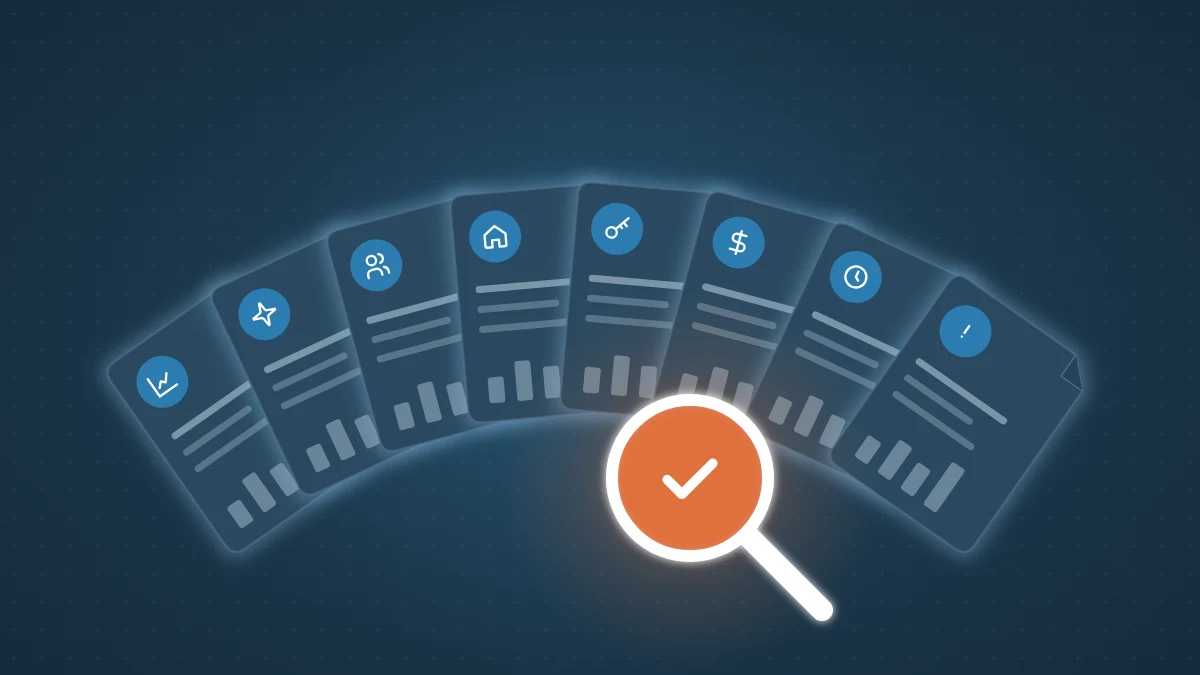
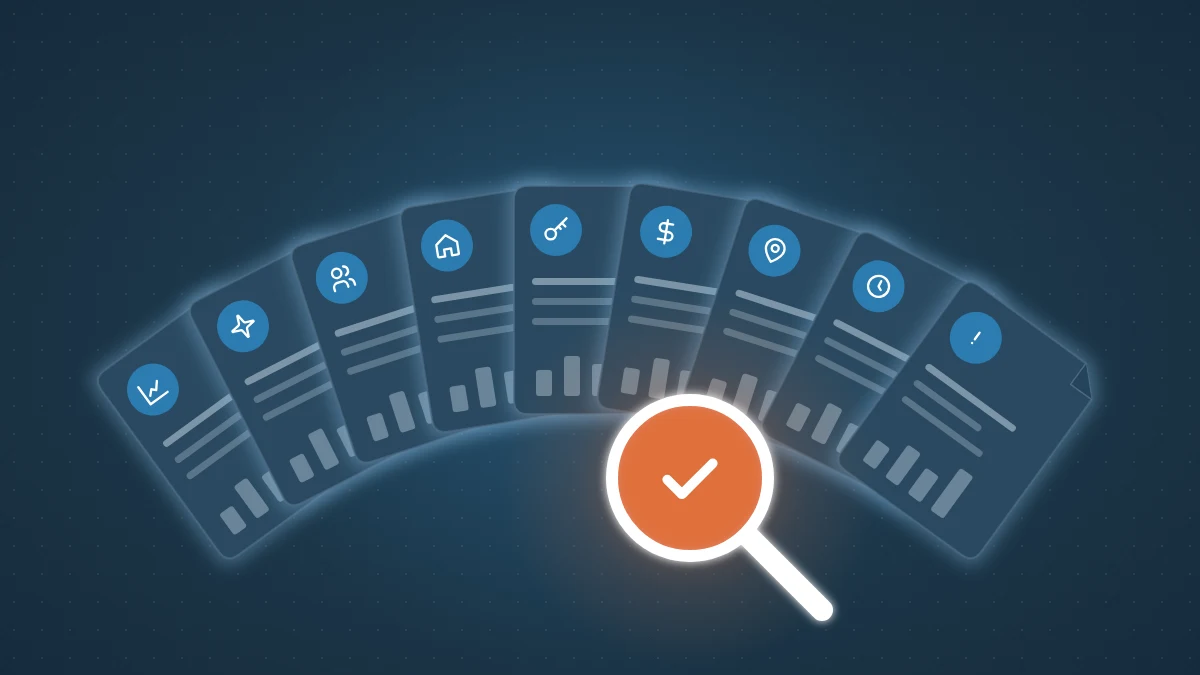
Reports post: add ProfitCoach financial performance report, now 9 reports; cover redrawn with nine cards

diff --git a/cover-src/2026-property-management-industry-reports.html b/cover-src/2026-property-management-industry-reports.html
@@ -17,14 +17,15 @@
   <filter id="rim" x="-25%" y="-70%" width="150%" height="240%"><feMorphology in="SourceAlpha" operator="dilate" radius="4" result="w"/><feGaussianBlur in="w" stdDeviation="9" result="s"/><feFlood flood-color="#7FB4DD" flood-opacity=".45"/><feComposite in2="s" operator="in" result="h"/><feMerge><feMergeNode in="h"/><feMergeNode in="SourceGraphic"/></feMerge></filter>
 </defs>
 <circle cx="600" cy="330" r="360" fill="url(#glowB)" opacity=".5"/>
-<g transform="translate(238.6 413.9) rotate(-35)"><g filter="url(#rim)"><path d="M-72.0 -114.0 H60.0 L86.0 -88.0 V100.0 Q86.0 114.0 72.0 114.0 H-72.0 Q-86.0 114.0 -86.0 100.0 V-100.0 Q-86.0 -114.0 -72.0 -114.0 Z" fill="#2a4a61" stroke="#4c6a80" stroke-width="1.5"/></g><path d="M60.0 -114.0 V-88.0 H86.0" fill="#24435a" stroke="#4c6a80" stroke-width="1.5"/><circle cx="-44.0" cy="-70.0" r="26" fill="#2C7CB0"/><g transform="translate(-58.0 -84.0) scale(1.167)" stroke="#fff" stroke-width="2.00" fill="none"><path d="M3 3v18h18"/><path d="M7 15l4-4 3 3 5-6"/></g><rect x="-68.0" y="-22.0" width="110" height="7" rx="3.5" fill="#9fb6c6" fill-opacity="0.7"/><rect x="-68.0" y="-2.0" width="82" height="7" rx="3.5" fill="#9fb6c6" fill-opacity="0.4"/><rect x="-68.0" y="18.0" width="98" height="7" rx="3.5" fill="#9fb6c6" fill-opacity="0.4"/><rect x="-64.0" y="70.0" width="16" height="26" rx="3" fill="#9fb6c6" fill-opacity=".55"/><rect x="-36.0" y="56.0" width="16" height="40" rx="3" fill="#9fb6c6" fill-opacity=".55"/><rect x="-8.0" y="64.0" width="16" height="32" rx="3" fill="#9fb6c6" fill-opacity=".55"/><rect x="20.0" y="44.0" width="16" height="52" rx="3" fill="#9fb6c6" fill-opacity=".55"/></g>
-<g transform="translate(333.8 359.0) rotate(-25)"><g filter="url(#rim)"><path d="M-72.0 -114.0 H60.0 L86.0 -88.0 V100.0 Q86.0 114.0 72.0 114.0 H-72.0 Q-86.0 114.0 -86.0 100.0 V-100.0 Q-86.0 -114.0 -72.0 -114.0 Z" fill="#2a4a61" stroke="#4c6a80" stroke-width="1.5"/></g><path d="M60.0 -114.0 V-88.0 H86.0" fill="#24435a" stroke="#4c6a80" stroke-width="1.5"/><circle cx="-44.0" cy="-70.0" r="26" fill="#2C7CB0"/><g transform="translate(-58.0 -84.0) scale(1.167)" stroke="#fff" stroke-width="2.00" fill="none"><path d="M9.9 15.5A2 2 0 0 0 8.5 14.1L2.4 12.5a.5.5 0 0 1 0-1l6.1-1.6A2 2 0 0 0 9.9 8.5l1.6-6.1a.5.5 0 0 1 1 0l1.6 6.1a2 2 0 0 0 1.4 1.4l6.1 1.6a.5.5 0 0 1 0 1l-6.1 1.6a2 2 0 0 0-1.4 1.4l-1.6 6.1a.5.5 0 0 1-1 0z"/></g><rect x="-68.0" y="-22.0" width="110" height="7" rx="3.5" fill="#9fb6c6" fill-opacity="0.7"/><rect x="-68.0" y="-2.0" width="82" height="7" rx="3.5" fill="#9fb6c6" fill-opacity="0.4"/><rect x="-68.0" y="18.0" width="98" height="7" rx="3.5" fill="#9fb6c6" fill-opacity="0.4"/><rect x="-64.0" y="70.0" width="16" height="26" rx="3" fill="#9fb6c6" fill-opacity=".55"/><rect x="-36.0" y="56.0" width="16" height="40" rx="3" fill="#9fb6c6" fill-opacity=".55"/><rect x="-8.0" y="64.0" width="16" height="32" rx="3" fill="#9fb6c6" fill-opacity=".55"/><rect x="20.0" y="44.0" width="16" height="52" rx="3" fill="#9fb6c6" fill-opacity=".55"/></g>
-<g transform="translate(436.9 321.5) rotate(-15)"><g filter="url(#rim)"><path d="M-72.0 -114.0 H60.0 L86.0 -88.0 V100.0 Q86.0 114.0 72.0 114.0 H-72.0 Q-86.0 114.0 -86.0 100.0 V-100.0 Q-86.0 -114.0 -72.0 -114.0 Z" fill="#2a4a61" stroke="#4c6a80" stroke-width="1.5"/></g><path d="M60.0 -114.0 V-88.0 H86.0" fill="#24435a" stroke="#4c6a80" stroke-width="1.5"/><circle cx="-44.0" cy="-70.0" r="26" fill="#2C7CB0"/><g transform="translate(-58.0 -84.0) scale(1.167)" stroke="#fff" stroke-width="2.00" fill="none"><circle cx="9" cy="7" r="4"/><path d="M3 21v-2a4 4 0 0 1 4-4h4a4 4 0 0 1 4 4v2M16 3.13a4 4 0 0 1 0 7.75M21 21v-2a4 4 0 0 0-3-3.85"/></g><rect x="-68.0" y="-22.0" width="110" height="7" rx="3.5" fill="#9fb6c6" fill-opacity="0.7"/><rect x="-68.0" y="-2.0" width="82" height="7" rx="3.5" fill="#9fb6c6" fill-opacity="0.4"/><rect x="-68.0" y="18.0" width="98" height="7" rx="3.5" fill="#9fb6c6" fill-opacity="0.4"/><rect x="-64.0" y="70.0" width="16" height="26" rx="3" fill="#9fb6c6" fill-opacity=".55"/><rect x="-36.0" y="56.0" width="16" height="40" rx="3" fill="#9fb6c6" fill-opacity=".55"/><rect x="-8.0" y="64.0" width="16" height="32" rx="3" fill="#9fb6c6" fill-opacity=".55"/><rect x="20.0" y="44.0" width="16" height="52" rx="3" fill="#9fb6c6" fill-opacity=".55"/></g>
-<g transform="translate(545.1 302.4) rotate(-5)"><g filter="url(#rim)"><path d="M-72.0 -114.0 H60.0 L86.0 -88.0 V100.0 Q86.0 114.0 72.0 114.0 H-72.0 Q-86.0 114.0 -86.0 100.0 V-100.0 Q-86.0 -114.0 -72.0 -114.0 Z" fill="#2a4a61" stroke="#4c6a80" stroke-width="1.5"/></g><path d="M60.0 -114.0 V-88.0 H86.0" fill="#24435a" stroke="#4c6a80" stroke-width="1.5"/><circle cx="-44.0" cy="-70.0" r="26" fill="#2C7CB0"/><g transform="translate(-58.0 -84.0) scale(1.167)" stroke="#fff" stroke-width="2.00" fill="none"><path d="M3 10.2 12 3l9 7.2V20a1 1 0 0 1-1 1h-5v-6H9v6H4a1 1 0 0 1-1-1z"/></g><rect x="-68.0" y="-22.0" width="110" height="7" rx="3.5" fill="#9fb6c6" fill-opacity="0.7"/><rect x="-68.0" y="-2.0" width="82" height="7" rx="3.5" fill="#9fb6c6" fill-opacity="0.4"/><rect x="-68.0" y="18.0" width="98" height="7" rx="3.5" fill="#9fb6c6" fill-opacity="0.4"/><rect x="-64.0" y="70.0" width="16" height="26" rx="3" fill="#9fb6c6" fill-opacity=".55"/><rect x="-36.0" y="56.0" width="16" height="40" rx="3" fill="#9fb6c6" fill-opacity=".55"/><rect x="-8.0" y="64.0" width="16" height="32" rx="3" fill="#9fb6c6" fill-opacity=".55"/><rect x="20.0" y="44.0" width="16" height="52" rx="3" fill="#9fb6c6" fill-opacity=".55"/></g>
-<g transform="translate(654.9 302.4) rotate(5)"><g filter="url(#rim)"><path d="M-72.0 -114.0 H60.0 L86.0 -88.0 V100.0 Q86.0 114.0 72.0 114.0 H-72.0 Q-86.0 114.0 -86.0 100.0 V-100.0 Q-86.0 -114.0 -72.0 -114.0 Z" fill="#2a4a61" stroke="#4c6a80" stroke-width="1.5"/></g><path d="M60.0 -114.0 V-88.0 H86.0" fill="#24435a" stroke="#4c6a80" stroke-width="1.5"/><circle cx="-44.0" cy="-70.0" r="26" fill="#2C7CB0"/><g transform="translate(-58.0 -84.0) scale(1.167)" stroke="#fff" stroke-width="2.00" fill="none"><circle cx="7.5" cy="15.5" r="4.5"/><path d="M10.7 12.3 21 2M17 6l3 3M14 9l2 2"/></g><rect x="-68.0" y="-22.0" width="110" height="7" rx="3.5" fill="#9fb6c6" fill-opacity="0.7"/><rect x="-68.0" y="-2.0" width="82" height="7" rx="3.5" fill="#9fb6c6" fill-opacity="0.4"/><rect x="-68.0" y="18.0" width="98" height="7" rx="3.5" fill="#9fb6c6" fill-opacity="0.4"/><rect x="-64.0" y="70.0" width="16" height="26" rx="3" fill="#9fb6c6" fill-opacity=".55"/><rect x="-36.0" y="56.0" width="16" height="40" rx="3" fill="#9fb6c6" fill-opacity=".55"/><rect x="-8.0" y="64.0" width="16" height="32" rx="3" fill="#9fb6c6" fill-opacity=".55"/><rect x="20.0" y="44.0" width="16" height="52" rx="3" fill="#9fb6c6" fill-opacity=".55"/></g>
-<g transform="translate(763.1 321.5) rotate(15)"><g filter="url(#rim)"><path d="M-72.0 -114.0 H60.0 L86.0 -88.0 V100.0 Q86.0 114.0 72.0 114.0 H-72.0 Q-86.0 114.0 -86.0 100.0 V-100.0 Q-86.0 -114.0 -72.0 -114.0 Z" fill="#2a4a61" stroke="#4c6a80" stroke-width="1.5"/></g><path d="M60.0 -114.0 V-88.0 H86.0" fill="#24435a" stroke="#4c6a80" stroke-width="1.5"/><circle cx="-44.0" cy="-70.0" r="26" fill="#2C7CB0"/><g transform="translate(-58.0 -84.0) scale(1.167)" stroke="#fff" stroke-width="2.00" fill="none"><path d="M12 2v20"/><path d="M17 5H9.5a3.5 3.5 0 0 0 0 7h5a3.5 3.5 0 0 1 0 7H6"/></g><rect x="-68.0" y="-22.0" width="110" height="7" rx="3.5" fill="#9fb6c6" fill-opacity="0.7"/><rect x="-68.0" y="-2.0" width="82" height="7" rx="3.5" fill="#9fb6c6" fill-opacity="0.4"/><rect x="-68.0" y="18.0" width="98" height="7" rx="3.5" fill="#9fb6c6" fill-opacity="0.4"/><rect x="-64.0" y="70.0" width="16" height="26" rx="3" fill="#9fb6c6" fill-opacity=".55"/><rect x="-36.0" y="56.0" width="16" height="40" rx="3" fill="#9fb6c6" fill-opacity=".55"/><rect x="-8.0" y="64.0" width="16" height="32" rx="3" fill="#9fb6c6" fill-opacity=".55"/><rect x="20.0" y="44.0" width="16" height="52" rx="3" fill="#9fb6c6" fill-opacity=".55"/></g>
-<g transform="translate(866.2 359.0) rotate(25)"><g filter="url(#rim)"><path d="M-72.0 -114.0 H60.0 L86.0 -88.0 V100.0 Q86.0 114.0 72.0 114.0 H-72.0 Q-86.0 114.0 -86.0 100.0 V-100.0 Q-86.0 -114.0 -72.0 -114.0 Z" fill="#2a4a61" stroke="#4c6a80" stroke-width="1.5"/></g><path d="M60.0 -114.0 V-88.0 H86.0" fill="#24435a" stroke="#4c6a80" stroke-width="1.5"/><circle cx="-44.0" cy="-70.0" r="26" fill="#2C7CB0"/><g transform="translate(-58.0 -84.0) scale(1.167)" stroke="#fff" stroke-width="2.00" fill="none"><circle cx="12" cy="12" r="9"/><path d="M12 7v5l3 2"/></g><rect x="-68.0" y="-22.0" width="110" height="7" rx="3.5" fill="#9fb6c6" fill-opacity="0.7"/><rect x="-68.0" y="-2.0" width="82" height="7" rx="3.5" fill="#9fb6c6" fill-opacity="0.4"/><rect x="-68.0" y="18.0" width="98" height="7" rx="3.5" fill="#9fb6c6" fill-opacity="0.4"/><rect x="-64.0" y="70.0" width="16" height="26" rx="3" fill="#9fb6c6" fill-opacity=".55"/><rect x="-36.0" y="56.0" width="16" height="40" rx="3" fill="#9fb6c6" fill-opacity=".55"/><rect x="-8.0" y="64.0" width="16" height="32" rx="3" fill="#9fb6c6" fill-opacity=".55"/><rect x="20.0" y="44.0" width="16" height="52" rx="3" fill="#9fb6c6" fill-opacity=".55"/></g>
-<g transform="translate(961.4 413.9) rotate(35)"><g filter="url(#rim)"><path d="M-72.0 -114.0 H60.0 L86.0 -88.0 V100.0 Q86.0 114.0 72.0 114.0 H-72.0 Q-86.0 114.0 -86.0 100.0 V-100.0 Q-86.0 -114.0 -72.0 -114.0 Z" fill="#2a4a61" stroke="#4c6a80" stroke-width="1.5"/></g><path d="M60.0 -114.0 V-88.0 H86.0" fill="#24435a" stroke="#4c6a80" stroke-width="1.5"/><circle cx="-44.0" cy="-70.0" r="26" fill="#2C7CB0"/><g transform="translate(-58.0 -84.0) scale(1.167)" stroke="#fff" stroke-width="2.00" fill="none"><path d="M12 6.5v7"/><path d="M12 17.5h.01"/></g><rect x="-68.0" y="-22.0" width="110" height="7" rx="3.5" fill="#9fb6c6" fill-opacity="0.7"/><rect x="-68.0" y="-2.0" width="82" height="7" rx="3.5" fill="#9fb6c6" fill-opacity="0.4"/><rect x="-68.0" y="18.0" width="98" height="7" rx="3.5" fill="#9fb6c6" fill-opacity="0.4"/><rect x="-64.0" y="70.0" width="16" height="26" rx="3" fill="#9fb6c6" fill-opacity=".55"/><rect x="-36.0" y="56.0" width="16" height="40" rx="3" fill="#9fb6c6" fill-opacity=".55"/><rect x="-8.0" y="64.0" width="16" height="32" rx="3" fill="#9fb6c6" fill-opacity=".55"/><rect x="20.0" y="44.0" width="16" height="52" rx="3" fill="#9fb6c6" fill-opacity=".55"/></g>
+<g transform="translate(229.7 420.3) rotate(-36)"><g filter="url(#rim)"><path d="M-72.0 -114.0 H60.0 L86.0 -88.0 V100.0 Q86.0 114.0 72.0 114.0 H-72.0 Q-86.0 114.0 -86.0 100.0 V-100.0 Q-86.0 -114.0 -72.0 -114.0 Z" fill="#2a4a61" stroke="#4c6a80" stroke-width="1.5"/></g><path d="M60.0 -114.0 V-88.0 H86.0" fill="#24435a" stroke="#4c6a80" stroke-width="1.5"/><circle cx="-44.0" cy="-70.0" r="26" fill="#2C7CB0"/><g transform="translate(-58.0 -84.0) scale(1.167)" stroke="#fff" stroke-width="2.00" fill="none"><path d="M3 3v18h18"/><path d="M7 15l4-4 3 3 5-6"/></g><rect x="-68.0" y="-22.0" width="110" height="7" rx="3.5" fill="#9fb6c6" fill-opacity="0.7"/><rect x="-68.0" y="-2.0" width="82" height="7" rx="3.5" fill="#9fb6c6" fill-opacity="0.4"/><rect x="-68.0" y="18.0" width="98" height="7" rx="3.5" fill="#9fb6c6" fill-opacity="0.4"/><rect x="-64.0" y="70.0" width="16" height="26" rx="3" fill="#9fb6c6" fill-opacity=".55"/><rect x="-36.0" y="56.0" width="16" height="40" rx="3" fill="#9fb6c6" fill-opacity=".55"/><rect x="-8.0" y="64.0" width="16" height="32" rx="3" fill="#9fb6c6" fill-opacity=".55"/><rect x="20.0" y="44.0" width="16" height="52" rx="3" fill="#9fb6c6" fill-opacity=".55"/></g>
+<g transform="translate(314.0 368.7) rotate(-27)"><g filter="url(#rim)"><path d="M-72.0 -114.0 H60.0 L86.0 -88.0 V100.0 Q86.0 114.0 72.0 114.0 H-72.0 Q-86.0 114.0 -86.0 100.0 V-100.0 Q-86.0 -114.0 -72.0 -114.0 Z" fill="#2a4a61" stroke="#4c6a80" stroke-width="1.5"/></g><path d="M60.0 -114.0 V-88.0 H86.0" fill="#24435a" stroke="#4c6a80" stroke-width="1.5"/><circle cx="-44.0" cy="-70.0" r="26" fill="#2C7CB0"/><g transform="translate(-58.0 -84.0) scale(1.167)" stroke="#fff" stroke-width="2.00" fill="none"><path d="M9.9 15.5A2 2 0 0 0 8.5 14.1L2.4 12.5a.5.5 0 0 1 0-1l6.1-1.6A2 2 0 0 0 9.9 8.5l1.6-6.1a.5.5 0 0 1 1 0l1.6 6.1a2 2 0 0 0 1.4 1.4l6.1 1.6a.5.5 0 0 1 0 1l-6.1 1.6a2 2 0 0 0-1.4 1.4l-1.6 6.1a.5.5 0 0 1-1 0z"/></g><rect x="-68.0" y="-22.0" width="110" height="7" rx="3.5" fill="#9fb6c6" fill-opacity="0.7"/><rect x="-68.0" y="-2.0" width="82" height="7" rx="3.5" fill="#9fb6c6" fill-opacity="0.4"/><rect x="-68.0" y="18.0" width="98" height="7" rx="3.5" fill="#9fb6c6" fill-opacity="0.4"/><rect x="-64.0" y="70.0" width="16" height="26" rx="3" fill="#9fb6c6" fill-opacity=".55"/><rect x="-36.0" y="56.0" width="16" height="40" rx="3" fill="#9fb6c6" fill-opacity=".55"/><rect x="-8.0" y="64.0" width="16" height="32" rx="3" fill="#9fb6c6" fill-opacity=".55"/><rect x="20.0" y="44.0" width="16" height="52" rx="3" fill="#9fb6c6" fill-opacity=".55"/></g>
+<g transform="translate(405.3 330.8) rotate(-18)"><g filter="url(#rim)"><path d="M-72.0 -114.0 H60.0 L86.0 -88.0 V100.0 Q86.0 114.0 72.0 114.0 H-72.0 Q-86.0 114.0 -86.0 100.0 V-100.0 Q-86.0 -114.0 -72.0 -114.0 Z" fill="#2a4a61" stroke="#4c6a80" stroke-width="1.5"/></g><path d="M60.0 -114.0 V-88.0 H86.0" fill="#24435a" stroke="#4c6a80" stroke-width="1.5"/><circle cx="-44.0" cy="-70.0" r="26" fill="#2C7CB0"/><g transform="translate(-58.0 -84.0) scale(1.167)" stroke="#fff" stroke-width="2.00" fill="none"><circle cx="9" cy="7" r="4"/><path d="M3 21v-2a4 4 0 0 1 4-4h4a4 4 0 0 1 4 4v2M16 3.13a4 4 0 0 1 0 7.75M21 21v-2a4 4 0 0 0-3-3.85"/></g><rect x="-68.0" y="-22.0" width="110" height="7" rx="3.5" fill="#9fb6c6" fill-opacity="0.7"/><rect x="-68.0" y="-2.0" width="82" height="7" rx="3.5" fill="#9fb6c6" fill-opacity="0.4"/><rect x="-68.0" y="18.0" width="98" height="7" rx="3.5" fill="#9fb6c6" fill-opacity="0.4"/><rect x="-64.0" y="70.0" width="16" height="26" rx="3" fill="#9fb6c6" fill-opacity=".55"/><rect x="-36.0" y="56.0" width="16" height="40" rx="3" fill="#9fb6c6" fill-opacity=".55"/><rect x="-8.0" y="64.0" width="16" height="32" rx="3" fill="#9fb6c6" fill-opacity=".55"/><rect x="20.0" y="44.0" width="16" height="52" rx="3" fill="#9fb6c6" fill-opacity=".55"/></g>
+<g transform="translate(501.4 307.8) rotate(-9)"><g filter="url(#rim)"><path d="M-72.0 -114.0 H60.0 L86.0 -88.0 V100.0 Q86.0 114.0 72.0 114.0 H-72.0 Q-86.0 114.0 -86.0 100.0 V-100.0 Q-86.0 -114.0 -72.0 -114.0 Z" fill="#2a4a61" stroke="#4c6a80" stroke-width="1.5"/></g><path d="M60.0 -114.0 V-88.0 H86.0" fill="#24435a" stroke="#4c6a80" stroke-width="1.5"/><circle cx="-44.0" cy="-70.0" r="26" fill="#2C7CB0"/><g transform="translate(-58.0 -84.0) scale(1.167)" stroke="#fff" stroke-width="2.00" fill="none"><path d="M3 10.2 12 3l9 7.2V20a1 1 0 0 1-1 1h-5v-6H9v6H4a1 1 0 0 1-1-1z"/></g><rect x="-68.0" y="-22.0" width="110" height="7" rx="3.5" fill="#9fb6c6" fill-opacity="0.7"/><rect x="-68.0" y="-2.0" width="82" height="7" rx="3.5" fill="#9fb6c6" fill-opacity="0.4"/><rect x="-68.0" y="18.0" width="98" height="7" rx="3.5" fill="#9fb6c6" fill-opacity="0.4"/><rect x="-64.0" y="70.0" width="16" height="26" rx="3" fill="#9fb6c6" fill-opacity=".55"/><rect x="-36.0" y="56.0" width="16" height="40" rx="3" fill="#9fb6c6" fill-opacity=".55"/><rect x="-8.0" y="64.0" width="16" height="32" rx="3" fill="#9fb6c6" fill-opacity=".55"/><rect x="20.0" y="44.0" width="16" height="52" rx="3" fill="#9fb6c6" fill-opacity=".55"/></g>
+<g transform="translate(600.0 300.0) rotate(0)"><g filter="url(#rim)"><path d="M-72.0 -114.0 H60.0 L86.0 -88.0 V100.0 Q86.0 114.0 72.0 114.0 H-72.0 Q-86.0 114.0 -86.0 100.0 V-100.0 Q-86.0 -114.0 -72.0 -114.0 Z" fill="#2a4a61" stroke="#4c6a80" stroke-width="1.5"/></g><path d="M60.0 -114.0 V-88.0 H86.0" fill="#24435a" stroke="#4c6a80" stroke-width="1.5"/><circle cx="-44.0" cy="-70.0" r="26" fill="#2C7CB0"/><g transform="translate(-58.0 -84.0) scale(1.167)" stroke="#fff" stroke-width="2.00" fill="none"><circle cx="7.5" cy="15.5" r="4.5"/><path d="M10.7 12.3 21 2M17 6l3 3M14 9l2 2"/></g><rect x="-68.0" y="-22.0" width="110" height="7" rx="3.5" fill="#9fb6c6" fill-opacity="0.7"/><rect x="-68.0" y="-2.0" width="82" height="7" rx="3.5" fill="#9fb6c6" fill-opacity="0.4"/><rect x="-68.0" y="18.0" width="98" height="7" rx="3.5" fill="#9fb6c6" fill-opacity="0.4"/><rect x="-64.0" y="70.0" width="16" height="26" rx="3" fill="#9fb6c6" fill-opacity=".55"/><rect x="-36.0" y="56.0" width="16" height="40" rx="3" fill="#9fb6c6" fill-opacity=".55"/><rect x="-8.0" y="64.0" width="16" height="32" rx="3" fill="#9fb6c6" fill-opacity=".55"/><rect x="20.0" y="44.0" width="16" height="52" rx="3" fill="#9fb6c6" fill-opacity=".55"/></g>
+<g transform="translate(698.6 307.8) rotate(9)"><g filter="url(#rim)"><path d="M-72.0 -114.0 H60.0 L86.0 -88.0 V100.0 Q86.0 114.0 72.0 114.0 H-72.0 Q-86.0 114.0 -86.0 100.0 V-100.0 Q-86.0 -114.0 -72.0 -114.0 Z" fill="#2a4a61" stroke="#4c6a80" stroke-width="1.5"/></g><path d="M60.0 -114.0 V-88.0 H86.0" fill="#24435a" stroke="#4c6a80" stroke-width="1.5"/><circle cx="-44.0" cy="-70.0" r="26" fill="#2C7CB0"/><g transform="translate(-58.0 -84.0) scale(1.167)" stroke="#fff" stroke-width="2.00" fill="none"><path d="M12 2v20"/><path d="M17 5H9.5a3.5 3.5 0 0 0 0 7h5a3.5 3.5 0 0 1 0 7H6"/></g><rect x="-68.0" y="-22.0" width="110" height="7" rx="3.5" fill="#9fb6c6" fill-opacity="0.7"/><rect x="-68.0" y="-2.0" width="82" height="7" rx="3.5" fill="#9fb6c6" fill-opacity="0.4"/><rect x="-68.0" y="18.0" width="98" height="7" rx="3.5" fill="#9fb6c6" fill-opacity="0.4"/><rect x="-64.0" y="70.0" width="16" height="26" rx="3" fill="#9fb6c6" fill-opacity=".55"/><rect x="-36.0" y="56.0" width="16" height="40" rx="3" fill="#9fb6c6" fill-opacity=".55"/><rect x="-8.0" y="64.0" width="16" height="32" rx="3" fill="#9fb6c6" fill-opacity=".55"/><rect x="20.0" y="44.0" width="16" height="52" rx="3" fill="#9fb6c6" fill-opacity=".55"/></g>
+<g transform="translate(794.7 330.8) rotate(18)"><g filter="url(#rim)"><path d="M-72.0 -114.0 H60.0 L86.0 -88.0 V100.0 Q86.0 114.0 72.0 114.0 H-72.0 Q-86.0 114.0 -86.0 100.0 V-100.0 Q-86.0 -114.0 -72.0 -114.0 Z" fill="#2a4a61" stroke="#4c6a80" stroke-width="1.5"/></g><path d="M60.0 -114.0 V-88.0 H86.0" fill="#24435a" stroke="#4c6a80" stroke-width="1.5"/><circle cx="-44.0" cy="-70.0" r="26" fill="#2C7CB0"/><g transform="translate(-58.0 -84.0) scale(1.167)" stroke="#fff" stroke-width="2.00" fill="none"><path d="M20 10c0 6-8 12-8 12S4 16 4 10a8 8 0 0 1 16 0z"/><circle cx="12" cy="10" r="3"/></g><rect x="-68.0" y="-22.0" width="110" height="7" rx="3.5" fill="#9fb6c6" fill-opacity="0.7"/><rect x="-68.0" y="-2.0" width="82" height="7" rx="3.5" fill="#9fb6c6" fill-opacity="0.4"/><rect x="-68.0" y="18.0" width="98" height="7" rx="3.5" fill="#9fb6c6" fill-opacity="0.4"/><rect x="-64.0" y="70.0" width="16" height="26" rx="3" fill="#9fb6c6" fill-opacity=".55"/><rect x="-36.0" y="56.0" width="16" height="40" rx="3" fill="#9fb6c6" fill-opacity=".55"/><rect x="-8.0" y="64.0" width="16" height="32" rx="3" fill="#9fb6c6" fill-opacity=".55"/><rect x="20.0" y="44.0" width="16" height="52" rx="3" fill="#9fb6c6" fill-opacity=".55"/></g>
+<g transform="translate(886.0 368.7) rotate(27)"><g filter="url(#rim)"><path d="M-72.0 -114.0 H60.0 L86.0 -88.0 V100.0 Q86.0 114.0 72.0 114.0 H-72.0 Q-86.0 114.0 -86.0 100.0 V-100.0 Q-86.0 -114.0 -72.0 -114.0 Z" fill="#2a4a61" stroke="#4c6a80" stroke-width="1.5"/></g><path d="M60.0 -114.0 V-88.0 H86.0" fill="#24435a" stroke="#4c6a80" stroke-width="1.5"/><circle cx="-44.0" cy="-70.0" r="26" fill="#2C7CB0"/><g transform="translate(-58.0 -84.0) scale(1.167)" stroke="#fff" stroke-width="2.00" fill="none"><circle cx="12" cy="12" r="9"/><path d="M12 7v5l3 2"/></g><rect x="-68.0" y="-22.0" width="110" height="7" rx="3.5" fill="#9fb6c6" fill-opacity="0.7"/><rect x="-68.0" y="-2.0" width="82" height="7" rx="3.5" fill="#9fb6c6" fill-opacity="0.4"/><rect x="-68.0" y="18.0" width="98" height="7" rx="3.5" fill="#9fb6c6" fill-opacity="0.4"/><rect x="-64.0" y="70.0" width="16" height="26" rx="3" fill="#9fb6c6" fill-opacity=".55"/><rect x="-36.0" y="56.0" width="16" height="40" rx="3" fill="#9fb6c6" fill-opacity=".55"/><rect x="-8.0" y="64.0" width="16" height="32" rx="3" fill="#9fb6c6" fill-opacity=".55"/><rect x="20.0" y="44.0" width="16" height="52" rx="3" fill="#9fb6c6" fill-opacity=".55"/></g>
+<g transform="translate(970.3 420.3) rotate(36)"><g filter="url(#rim)"><path d="M-72.0 -114.0 H60.0 L86.0 -88.0 V100.0 Q86.0 114.0 72.0 114.0 H-72.0 Q-86.0 114.0 -86.0 100.0 V-100.0 Q-86.0 -114.0 -72.0 -114.0 Z" fill="#2a4a61" stroke="#4c6a80" stroke-width="1.5"/></g><path d="M60.0 -114.0 V-88.0 H86.0" fill="#24435a" stroke="#4c6a80" stroke-width="1.5"/><circle cx="-44.0" cy="-70.0" r="26" fill="#2C7CB0"/><g transform="translate(-58.0 -84.0) scale(1.167)" stroke="#fff" stroke-width="2.00" fill="none"><path d="M12 6.5v7"/><path d="M12 17.5h.01"/></g><rect x="-68.0" y="-22.0" width="110" height="7" rx="3.5" fill="#9fb6c6" fill-opacity="0.7"/><rect x="-68.0" y="-2.0" width="82" height="7" rx="3.5" fill="#9fb6c6" fill-opacity="0.4"/><rect x="-68.0" y="18.0" width="98" height="7" rx="3.5" fill="#9fb6c6" fill-opacity="0.4"/><rect x="-64.0" y="70.0" width="16" height="26" rx="3" fill="#9fb6c6" fill-opacity=".55"/><rect x="-36.0" y="56.0" width="16" height="40" rx="3" fill="#9fb6c6" fill-opacity=".55"/><rect x="-8.0" y="64.0" width="16" height="32" rx="3" fill="#9fb6c6" fill-opacity=".55"/><rect x="20.0" y="44.0" width="16" height="52" rx="3" fill="#9fb6c6" fill-opacity=".55"/></g>
 <circle cx="690" cy="478" r="190" fill="url(#glowO)"/>
 <path d="M744 532 L822 610" stroke="#fff" stroke-width="22" filter="url(#soft)"/>
 <circle cx="690" cy="478" r="78" fill="#E0703C" fill-opacity=".92" stroke="#fff" stroke-width="12" filter="url(#soft)"/>

diff --git a/blog/2026-property-management-industry-reports.html b/blog/2026-property-management-industry-reports.html
@@ -6,19 +6,19 @@
 <link rel="preconnect" href="https://fonts.googleapis.com" />
 <link rel="preconnect" href="https://fonts.gstatic.com" crossorigin />
 <link rel="preconnect" href="https://use.typekit.net" crossorigin />
-<title>2026 Property Management Industry Reports: The 8 Worth Reading &middot; Peter Lohmann</title>
-<meta name="description" content="Eight 2026 property management research reports for single-family PMs, plus the stats that matter on AI, owner retention, leasing, repair times, and fraud." />
+<title>2026 Property Management Industry Reports: The 9 Worth Reading &middot; Peter Lohmann</title>
+<meta name="description" content="Nine 2026 property management research reports for single-family PMs, plus the stats that matter on AI, owner retention, leasing, repair times, fraud, and profitability." />
 <link rel="canonical" href="https://www.peterlohmann.com/blog/2026-property-management-industry-reports" />
 <meta property="og:type" content="article" />
-<meta property="og:title" content="2026 Property Management Industry Reports: The 8 Worth Reading" />
-<meta property="og:description" content="Eight 2026 property management research reports for single-family PMs, plus the stats that matter on AI, owner retention, leasing, repair times, and fraud." />
+<meta property="og:title" content="2026 Property Management Industry Reports: The 9 Worth Reading" />
+<meta property="og:description" content="Nine 2026 property management research reports for single-family PMs, plus the stats that matter on AI, owner retention, leasing, repair times, fraud, and profitability." />
 <meta property="og:url" content="https://www.peterlohmann.com/blog/2026-property-management-industry-reports" />
 <meta property="og:image" content="https://www.peterlohmann.com/images/blog/2026-property-management-industry-reports--og.jpg" />
 <meta property="og:image:width" content="1200" />
 <meta property="og:image:height" content="630" />
 <meta property="og:site_name" content="Peter Lohmann" />
 <meta name="twitter:card" content="summary_large_image" />
-<script type="application/ld+json">{"@context":"https://schema.org","@type":"BlogPosting","headline":"2026 Property Management Industry Reports: The 8 Worth Reading","description":"Eight 2026 property management research reports for single-family PMs, plus the stats that matter on AI, owner retention, leasing, repair times, and fraud.","image":"https://www.peterlohmann.com/images/blog/2026-property-management-industry-reports--cover.webp","url":"https://www.peterlohmann.com/blog/2026-property-management-industry-reports","author":{"@type":"Person","name":"Peter Lohmann","url":"https://www.peterlohmann.com/"},"publisher":{"@type":"Person","name":"Peter Lohmann"},"mainEntityOfPage":"https://www.peterlohmann.com/blog/2026-property-management-industry-reports","datePublished":"2026-11-10"}</script>
+<script type="application/ld+json">{"@context":"https://schema.org","@type":"BlogPosting","headline":"2026 Property Management Industry Reports: The 9 Worth Reading","description":"Nine 2026 property management research reports for single-family PMs, plus the stats that matter on AI, owner retention, leasing, repair times, fraud, and profitability.","image":"https://www.peterlohmann.com/images/blog/2026-property-management-industry-reports--cover.webp","url":"https://www.peterlohmann.com/blog/2026-property-management-industry-reports","author":{"@type":"Person","name":"Peter Lohmann","url":"https://www.peterlohmann.com/"},"publisher":{"@type":"Person","name":"Peter Lohmann"},"mainEntityOfPage":"https://www.peterlohmann.com/blog/2026-property-management-industry-reports","datePublished":"2026-11-10"}</script>
 <link rel="icon" type="image/svg+xml" href="../favicon.svg" />
 <link rel="icon" type="image/png" sizes="32x32" href="../favicon-32.png" />
 <link rel="apple-touch-icon" href="/apple-touch-icon.png" />
@@ -73,13 +73,13 @@ document.getElementsByTagName("script")[0].parentNode.insertBefore(s, document.g
           <div class="article-head-text">
             <a class="article-back" href="/blog">&larr; All posts</a>
             <div class="article-meta">Nov 10, 2026 &middot; by Peter Lohmann</div>
-            <h1>2026 Property Management Industry Reports: The 8 Worth Reading</h1>
-          </div><figure class="article-cover"><img src="../images/blog/2026-property-management-industry-reports--cover.webp" alt="Illustration of eight research reports fanned out like a hand of cards, each marked with a topic icon such as AI, owners, rent, repair time, and fraud, with an orange magnifying glass and check mark in front." width="1200" height="675" /></figure>
+            <h1>2026 Property Management Industry Reports: The 9 Worth Reading</h1>
+          </div><figure class="article-cover"><img src="../images/blog/2026-property-management-industry-reports--cover.webp" alt="Illustration of nine research reports fanned out like a hand of cards, each marked with a topic icon such as AI, owners, rent, repair time, and fraud, with an orange magnifying glass and check mark in front." width="1200" height="675" /></figure>
         </header>
         <div class="article-body">
 <p>It&rsquo;s report season! Software companies, associations, and data shops are all publishing their numbers, and the good stuff is scattered across a pile of websites and PDFs.</p>
-<p>I rounded up the 2026 property management research reports so you don&rsquo;t have to scour the internet for them. Eight stood out to me for single-family PMs. Here&rsquo;s the full list with links, followed by the stats that matter, grouped by the problem they speak to.</p>
-<h2>All 8 reports in one place</h2>
+<p>I rounded up the 2026 property management research reports so you don&rsquo;t have to scour the internet for them. Nine stood out to me for single-family PMs. Here&rsquo;s the full list with links, followed by the stats that matter, grouped by the problem they speak to.</p>
+<h2>All 9 reports in one place</h2>
 <p>In no particular order:</p>
 <ol>
 <li><strong><a href="https://www.buildium.com/resource/2027-property-management-industry-report/" target="_blank" rel="noopener">Buildium&rsquo;s 2027 State of the Property Management Industry Report</a>:</strong> roughly 1,000 PMs, 300 owners, and 1,500+ renters surveyed in spring 2026. NARPM president DD Garzon wrote the foreword.</li>
@@ -90,6 +90,7 @@ document.getElementsByTagName("script")[0].parentNode.insertBefore(s, document.g
 <li><strong><a href="https://www.rentengine.io/quarterly-reports/q3-2026" target="_blank" rel="noopener">RentEngine Q3 2026 Leasing Data &amp; Trends Report</a>:</strong> days on market, pre-vacancy listings, specials, and AI response rates.</li>
 <li><strong><a href="https://sm.showmojo.com/q3-2026-hard-data-and-proven-techniques" target="_blank" rel="noopener">ShowMojo Q3 2026 Data Talk</a>:</strong> 1.8M+ leased units, broken out by region.</li>
 <li><strong><a href="https://www.rentometer.com/2026-mid-year-single-family-rental-market-report" target="_blank" rel="noopener">Rentometer Mid-Year 2026 Single-Family Rental Report</a>:</strong> asking rents across 1,099 cities.</li>
+<li><strong><a href="https://www.pmprofitcoach.com/state-of-financial-performance-in-property-management/" target="_blank" rel="noopener">ProfitCoach&rsquo;s 2026 State of Financial Performance in Property Management Report</a>:</strong> six financial performance metrics, including what drives profitability, direct labor efficiency ratio, <a href="/blog/revenue-per-unit-property-management">revenue per unit</a>, expenses as a percent of revenue, client churn rate, and unit acquisition cost. They also found that pushing occupancy past 95% only yields 0.88% more profit.</li>
 </ol>
 <h2>AI: most PMs use it, fewer see it in NOI</h2>
 <p><a href="https://www.buildium.com/resource/2027-property-management-industry-report/" target="_blank" rel="noopener">Buildium&rsquo;s 2027 State of the Property Management Industry Report</a> (yes, 2027, they&rsquo;re early) has the stat I keep coming back to. 64% of companies plan to grow their portfolios, while 70% plan to keep headcount flat.</p>

diff --git a/blog.html b/blog.html
@@ -80,8 +80,8 @@ document.getElementsByTagName("script")[0].parentNode.insertBefore(s, document.g
           <div class="ph-img"><img src="images/blog/2026-property-management-industry-reports--cover.webp" alt="" loading="lazy"></div>
           <div class="tp-body">
             <div class="date">Nov 10, 2026</div>
-            <h2>2026 Property Management Industry Reports: The 8 Worth Reading</h2>
-            <p>Eight 2026 property management research reports for single-family PMs, plus the stats that matter on AI, owner retention, leasing, repair times, and fraud.</p>
+            <h2>2026 Property Management Industry Reports: The 9 Worth Reading</h2>
+            <p>Nine 2026 property management research reports for single-family PMs, plus the stats that matter on AI, owner retention, leasing, repair times, fraud, and profitability.</p>
             <span class="arrow">Read the post &rarr;</span>
           </div>
         </a>

diff --git a/cover-src/make-industry-reports-cover.py b/cover-src/make-industry-reports-cover.py
@@ -1,6 +1,6 @@
 """Nov 10, 2026 cover: 2026 property management industry reports (DARK).
-A fan of eight report cards, each with its topic icon, and a glowing orange magnifier
-with a check mark: the eight worth reading. Writes cover-src/<slug>.html."""
+A fan of nine report cards (eight at first; the ProfitCoach report was added Nov 12), each with its topic icon, and a glowing orange magnifier
+with a check mark: the nine worth reading. Writes cover-src/<slug>.html."""
 import math, os, sys
 sys.path.insert(0, os.path.dirname(os.path.abspath(__file__)))
 from cover_kit import *
@@ -25,9 +25,9 @@ def report_card(icon_name, w=172, h=228):
 
 def cover():
     b = ['<circle cx="600" cy="330" r="360" fill="url(#glowB)" opacity=".5"/>']
-    icons = ["chart", "sparkle", "users", "house", "key", "dollar", "clock", "alert"]
+    icons = ["chart", "sparkle", "users", "house", "key", "dollar", "pin", "clock", "alert"]
     pivot_x, pivot_y, radius = 600, 930, 630
-    angles = [-35 + i * 10 for i in range(8)]
+    angles = [-36 + i * 9 for i in range(9)]
     cards = []
     for name, a in zip(icons, angles):
         r = math.radians(a)
@@ -37,7 +37,7 @@ def cover():
     # left to right, like a hand of cards, so every topic icon (top left) stays visible
     for _, svg in cards:
         b.append(svg)
-    # magnifier: the eight worth reading
+    # magnifier: the nine worth reading
     lx, ly, lr = 690, 478, 78
     b.append(f'<circle cx="{lx}" cy="{ly}" r="190" fill="url(#glowO)"/>')
     b.append(f'<path d="M{lx + 54} {ly + 54} L{lx + 132} {ly + 132}" stroke="#fff" stroke-width="22" filter="url(#soft)"/>')
